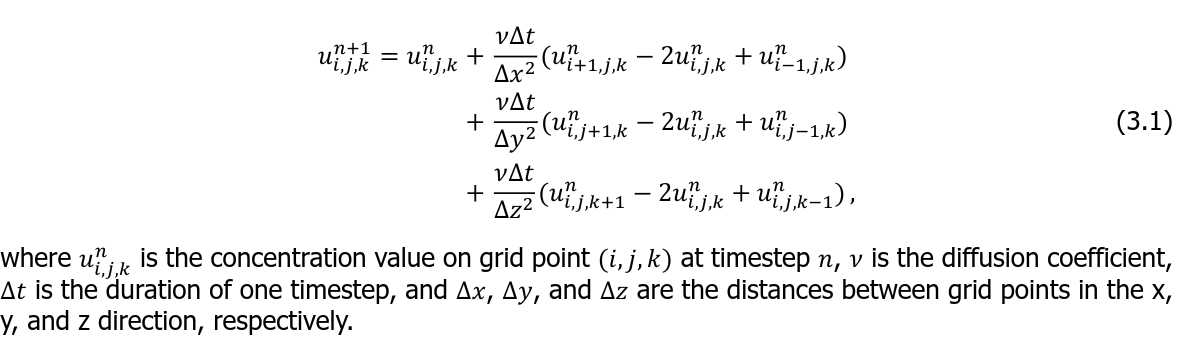
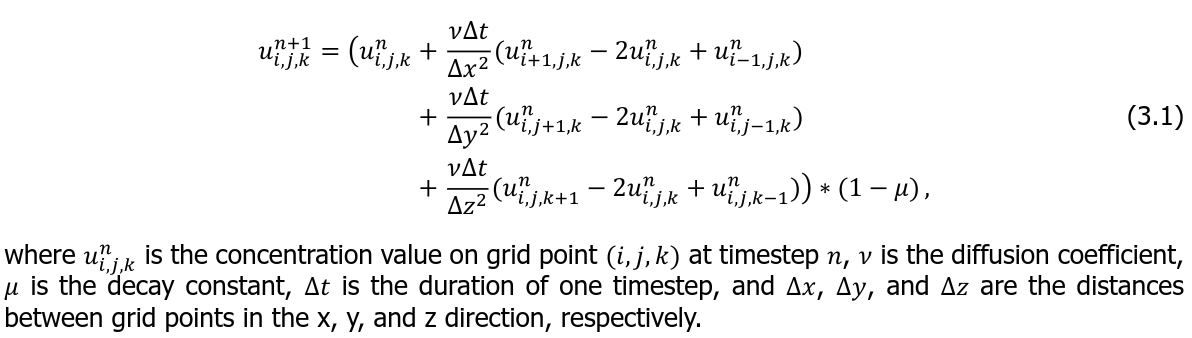
Update documentation on diffusion.
Add information on the decay constant.

diff --git a/doc/user_guide/docs/diffusion.md b/doc/user_guide/docs/diffusion.md
@@ -147,7 +147,9 @@ analytical way using the central difference method as shown in the figure below:
 
 ![Central Difference Method](images/diffusion_central_difference_method.png)
 
-Mathematically, the method would allow for unphysical behavior to occur, such as
+The diffusion coefficient dictates the speed of diffusing a substance through
+space, while with the decay constant one controls the speed at which a substance
+decays. Mathematically, the method would allow for unphysical behavior to occur, such as
 negative concentration values. In order to avoid such behavior from happening,
 we impose the following constraint on the parameters:
 
